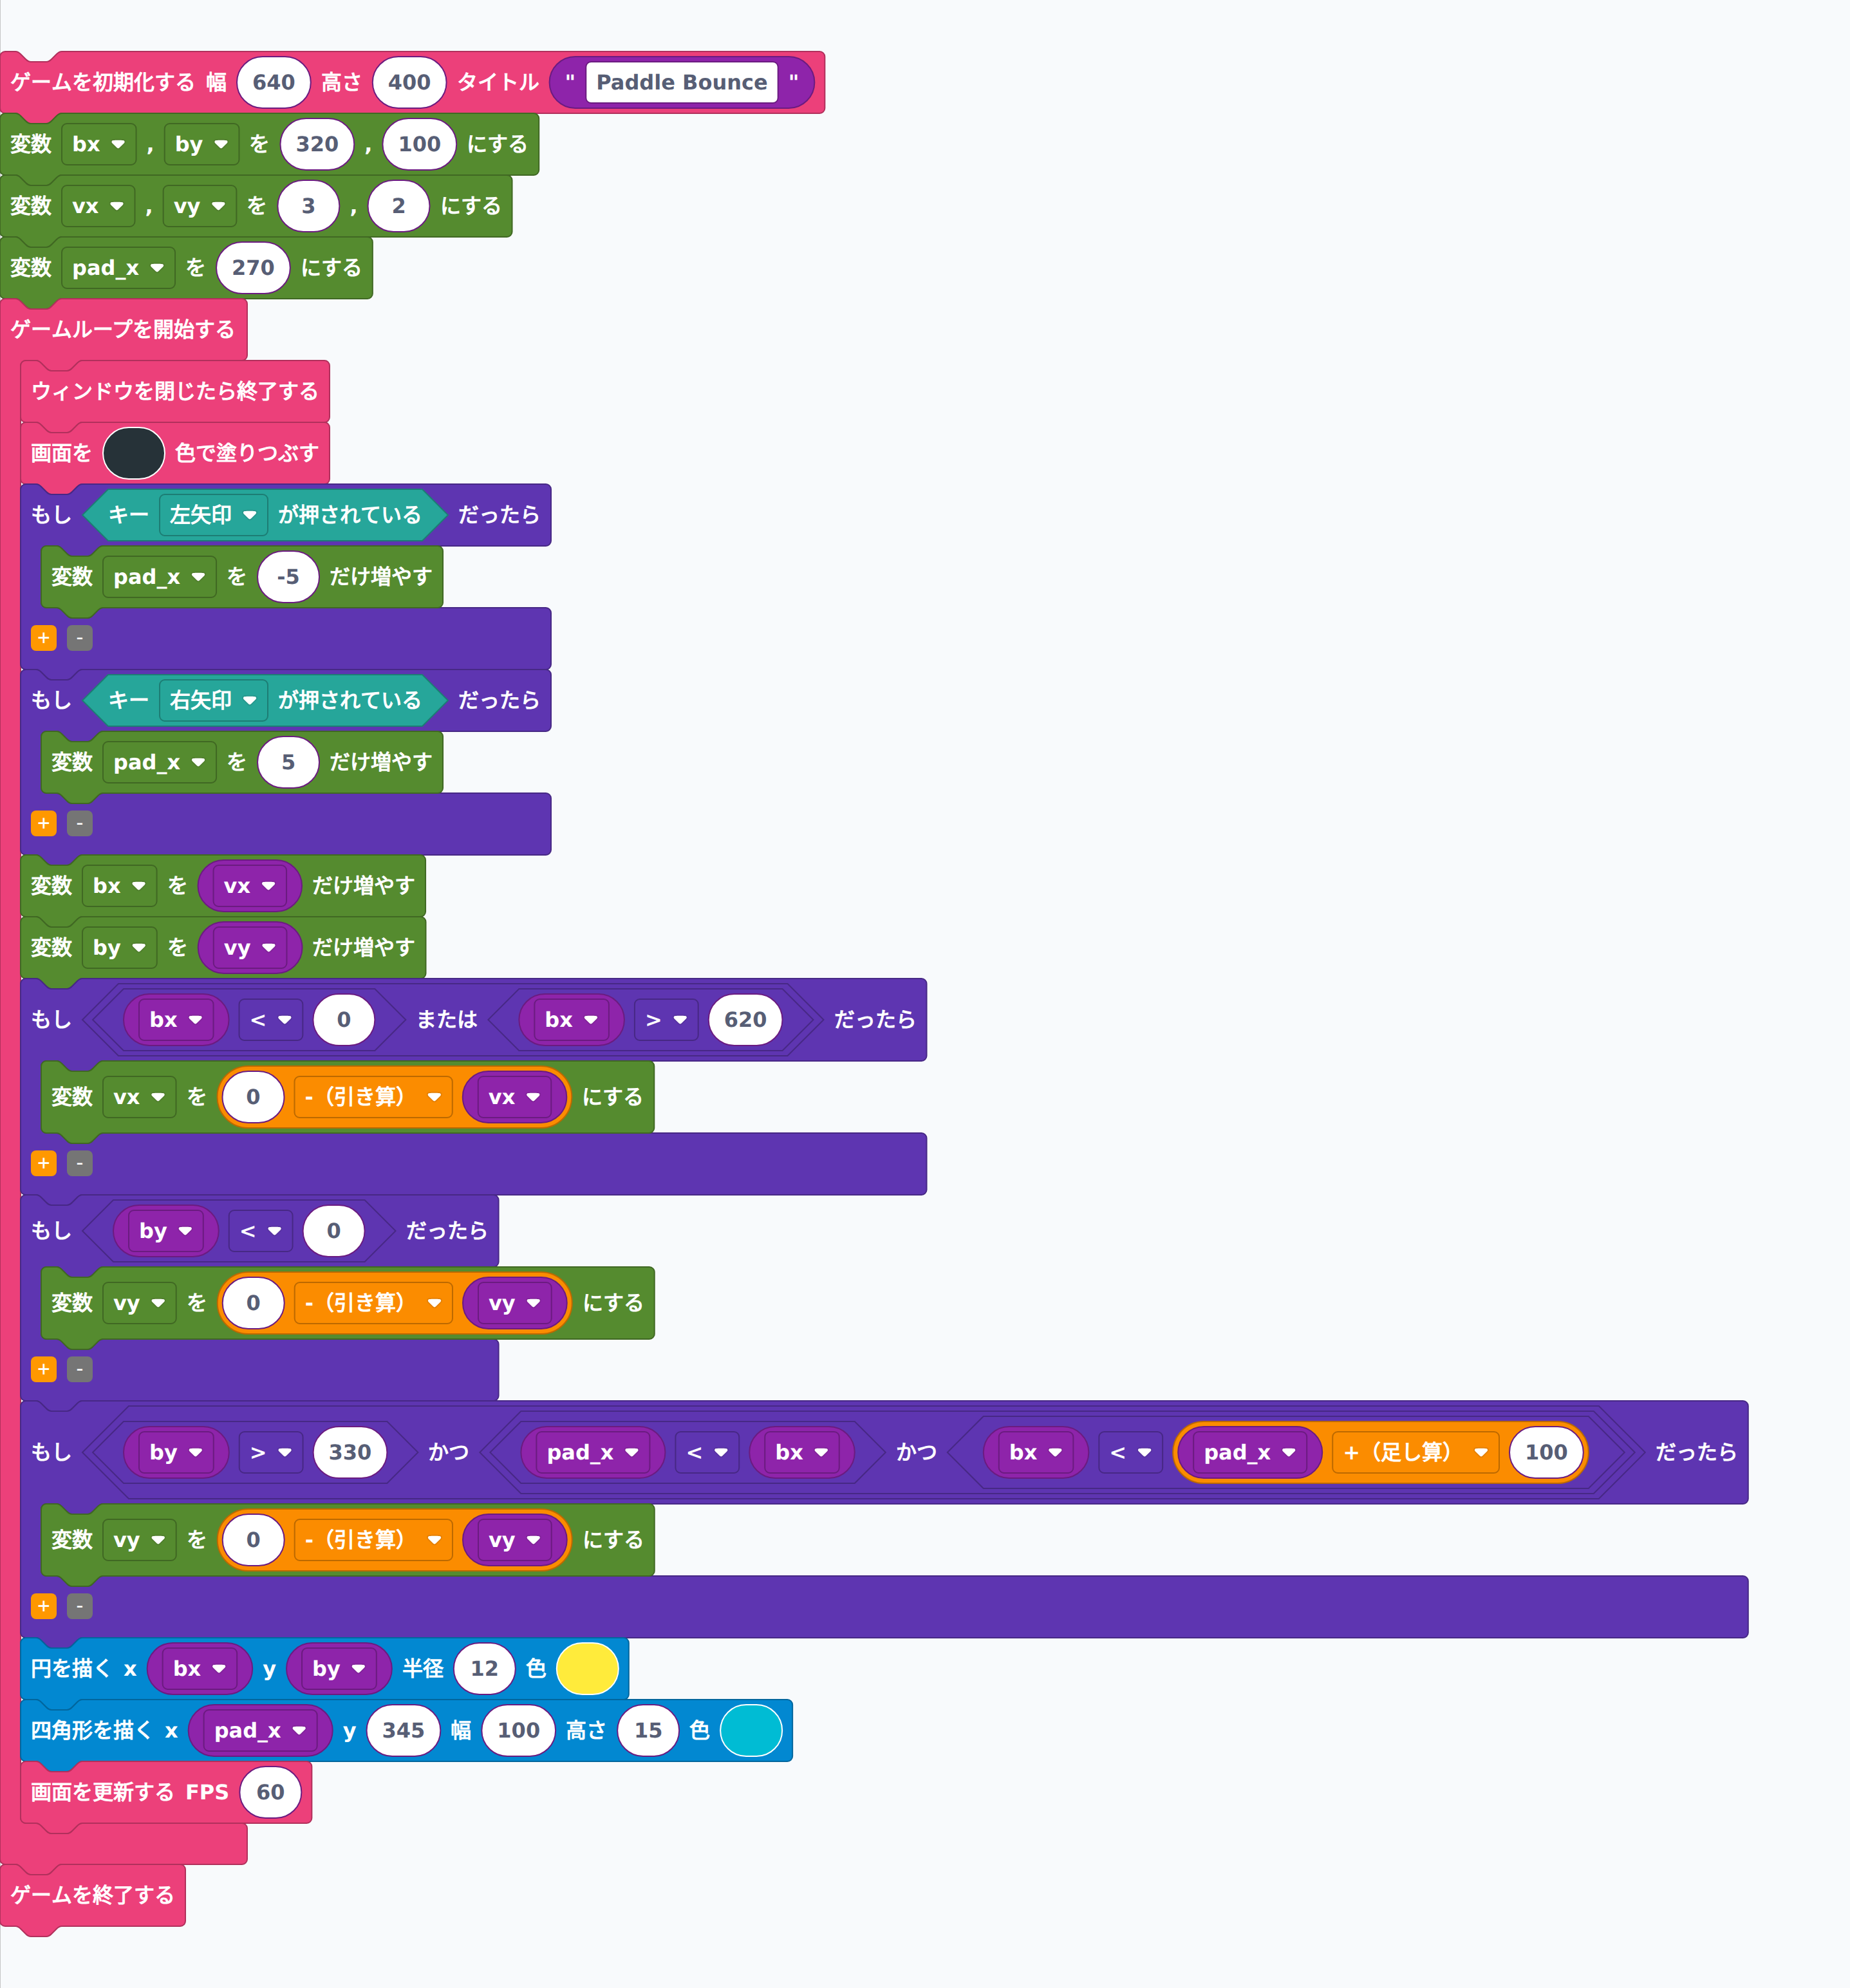
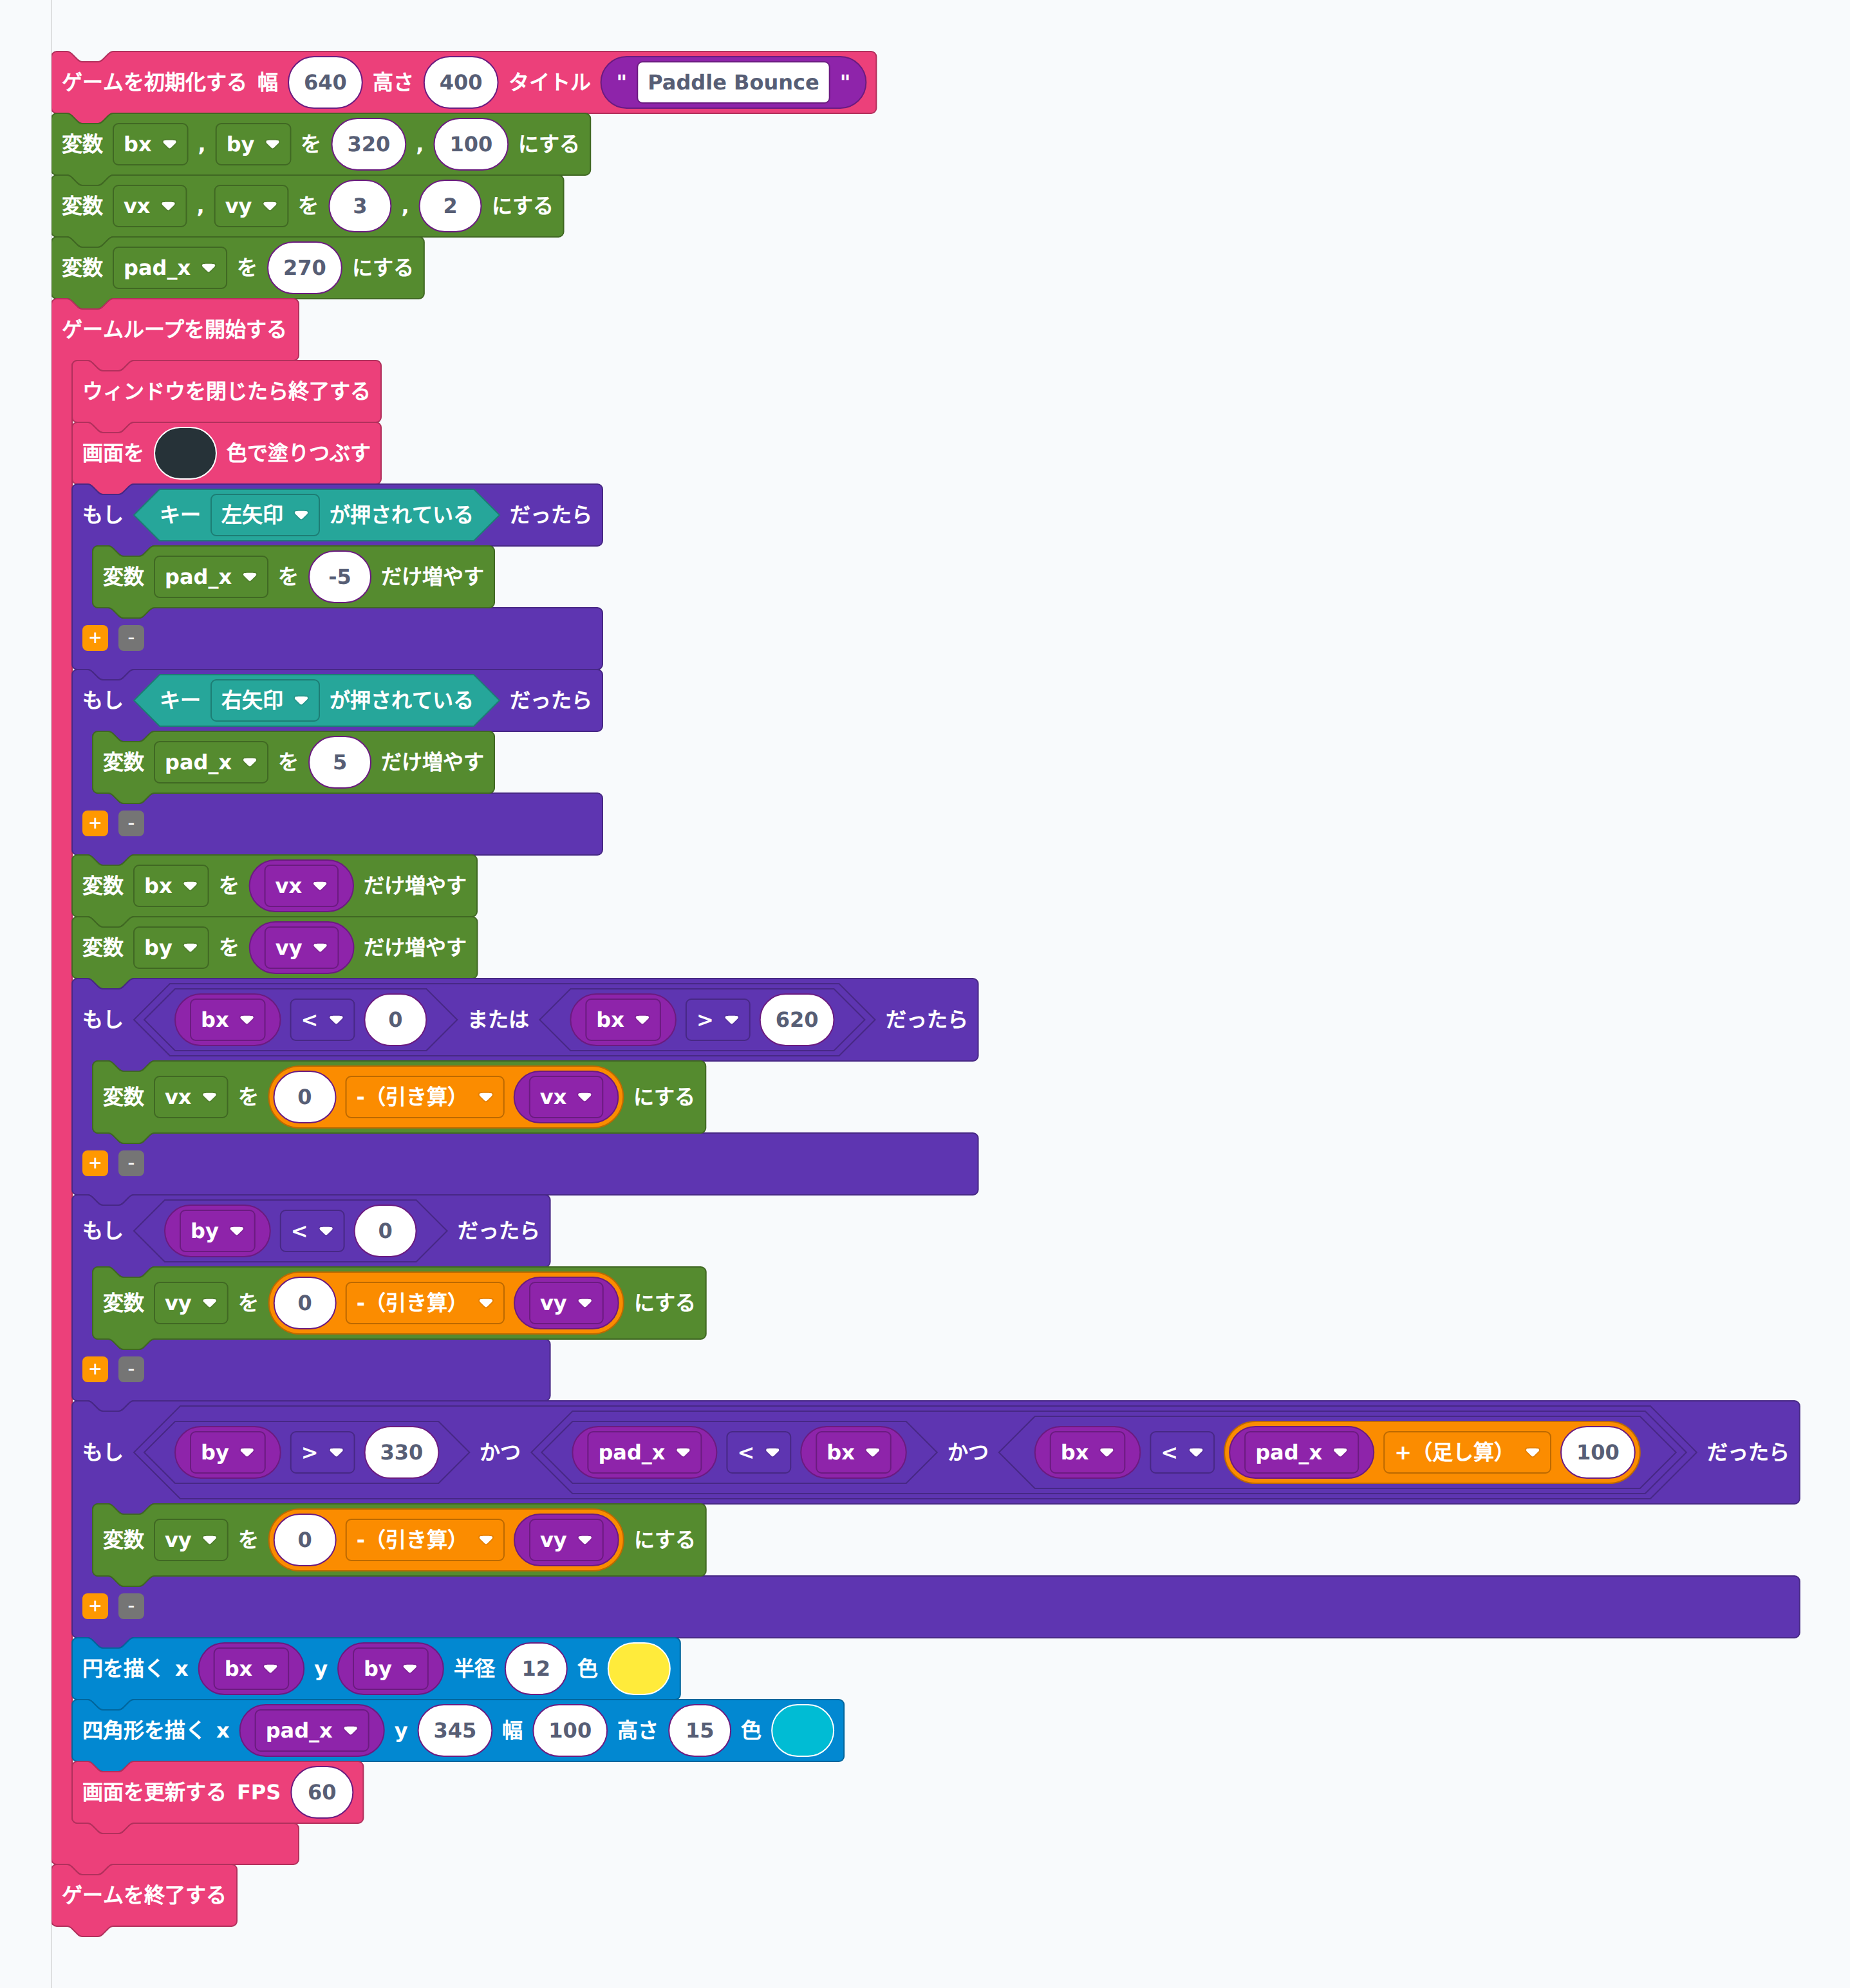
Pygame⑨ 課題4-9-3 ブロック図に左余白を追加 + blockshot.html minLeft 対応

Changed region(s): [[0.0, 0.0, 0.991, 0.9948], [0.2787, 0.4041, 0.3406, 0.4352]]

diff --git a/tools/blockshot.html b/tools/blockshot.html
@@ -70,7 +70,7 @@
           return r.text();
         })
         .then(function (xmlText) {
-          // py_module_call_val/stmt が使うモジュール名・関数名を XML から事前収集
+          // py_module_call_val/stmt と import系ブロックが使うモジュール名・関数名を XML から事前収集
           // → FieldDropdown がオプションリストを持てるようにする（blockshot環境用）
           var xmlDoc = new DOMParser().parseFromString(xmlText, 'text/xml');
           var modSet = {}, funcMap = {};
@@ -81,6 +81,17 @@
             var func = ff ? ff.textContent.trim() : '';
             if (mod) { modSet[mod] = true; if (!funcMap[mod]) funcMap[mod] = {}; }
             if (mod && func) funcMap[mod][func] = true;
+          });
+          // import系ブロック（py_import_module / py_import_as / py_from_import）からも収集
+          xmlDoc.querySelectorAll('block[type="py_import_module"],block[type="py_import_as"],block[type="py_from_import"]').forEach(function(b) {
+            var mf = b.querySelector(':scope > field[name="MODULE"]');
+            var nf = b.querySelector(':scope > field[name="NAMES"]');
+            var mod = mf ? mf.textContent.trim() : '';
+            var names = nf ? nf.textContent.trim() : '';
+            if (mod) { modSet[mod] = true; if (!funcMap[mod]) funcMap[mod] = {}; }
+            if (mod && names) {
+              names.split(/\s*,\s*/).forEach(function(n) { if (n) funcMap[mod][n] = true; });
+            }
           });
           var modNames = Object.keys(modSet);
           if (modNames.length > 0) {
@@ -104,15 +115,17 @@
               // ブロックが実際に占める範囲を Python 側に渡す（余白クロップ用）
               var canvas = document.querySelector('.blocklyBlockCanvas');
               if (canvas) {
-                // 上余白が不足する場合はキャンバスを下にずらして余白を確保する
+                // 上・左の余白が不足する場合はキャンバスをずらして余白を確保する
                 var r0 = canvas.getBoundingClientRect();
                 var minTop = 70;
-                if (r0.top < minTop) {
-                  var shift = minTop - r0.top;
+                var minLeft = 40;
+                var shiftY = r0.top < minTop ? (minTop - r0.top) : 0;
+                var shiftX = r0.left < minLeft ? (minLeft - r0.left) : 0;
+                if (shiftY > 0 || shiftX > 0) {
                   var tf = canvas.getAttribute('transform') || 'translate(0,0)';
                   canvas.setAttribute('transform',
                     tf.replace(/translate\(\s*([\d.eE+-]+)\s*,\s*([\d.eE+-]+)\s*\)/,
-                      function(_, x, y) { return 'translate(' + x + ',' + (parseFloat(y) + shift) + ')'; }
+                      function(_, x, y) { return 'translate(' + (parseFloat(x) + shiftX) + ',' + (parseFloat(y) + shiftY) + ')'; }
                     )
                   );
                 }

diff --git a/tools/build_game_09.py b/tools/build_game_09.py
@@ -10,7 +10,7 @@ sys.path.insert(0, str(Path(__file__).parent))
 from build_helpers import wp_get, wp_update  # noqa
 
 PAGE_ID = 4070
-CACHE_BUSTER = "?v=20260507h"
+CACHE_BUSTER = "?v=20260508a"
 GAME_BASE = "https://hirokazu-ando.github.io/pyco-blocks/samples/game"
 
 IMAGE_WIDTHS = {"game_05_ball_bounce": 1221,